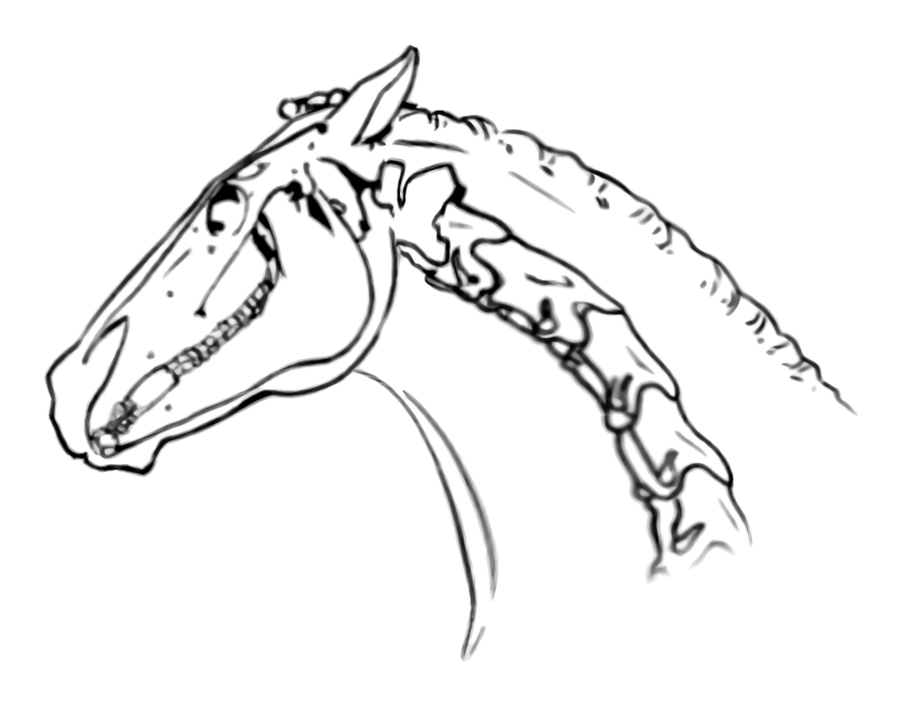
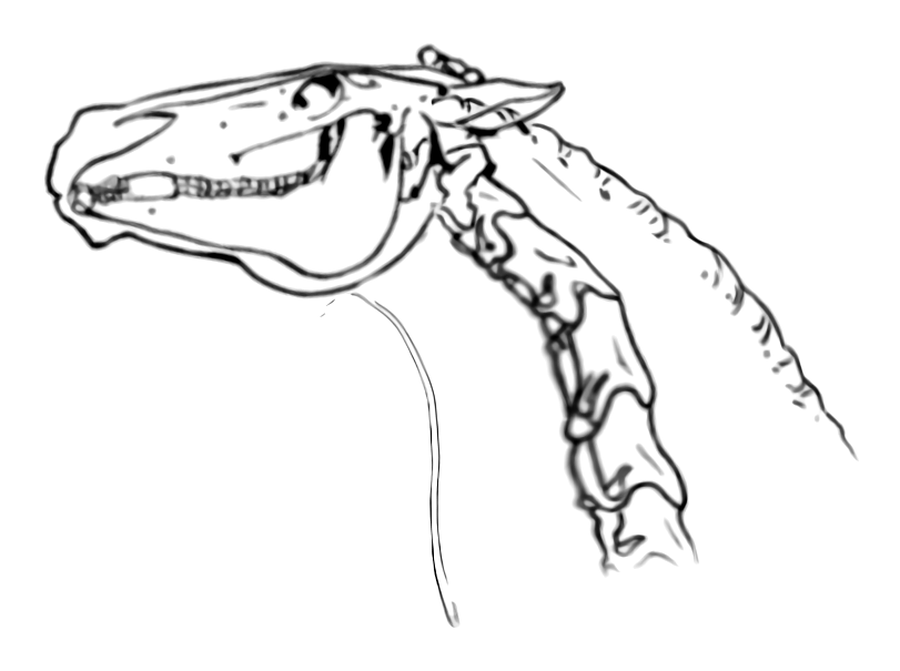
Bit register: restore the author's assignment of the above-the-bit and not-collected drawings
The previous swap was wrong: the author's fifth drawing (head raised,
neck steep) is above the bit and the sixth (head level, neck long) is
not collected. Drawing URLs now carry a version so browsers do not show
the stale pair.

Claude-Session: https://claude.ai/code/session_01M1K47yvTVQgnMUU3i1Nrvw

Changed region(s): [[0.0311, 0.0596, 0.84, 0.9538], [0.7778, 0.3577, 0.9644, 0.6855]]

diff --git a/assets/bits.js b/assets/bits.js
@@ -1559,7 +1559,7 @@
       /* The drawing is placed so that its bit anchor sits at the figure origin;
          the mechanical parts are drawn in the head frame derived from it. */
       var drawing = el("fa-drawing");
-      var drawPath = dataBase.replace(/data\/bits\/$/, "") + CATALOG.posture_drawings.path + posture.image;
+      var drawPath = dataBase.replace(/data\/bits\/$/, "") + CATALOG.posture_drawings.path + posture.image + "?v=" + (CATALOG.posture_drawings.version || 1);
       drawing.setAttribute("href", drawPath);
       attrs(drawing, {
         x: ORIGIN_A.x - FRAME.bit.x * DRAWING_SCALE, y: ORIGIN_A.y - FRAME.bit.y * DRAWING_SCALE,
@@ -1874,7 +1874,7 @@
         if (!g) { return; }
         var posture = M.byId(CATALOG.postures, p.id);
         var glyph = g.querySelector("image");
-        if (glyph && posture) { glyph.setAttribute("href", drawBase + posture.image); }
+        if (glyph && posture) { glyph.setAttribute("href", drawBase + posture.image + "?v=" + (CATALOG.posture_drawings.version || 1)); }
         g.querySelector(".lab").textContent = posture ? t(posture.label) : p.id;
         g.querySelector(".lab2").textContent = posture ? t(posture.sub) : "";
         var h = Math.min(135, p.peak * scale);
